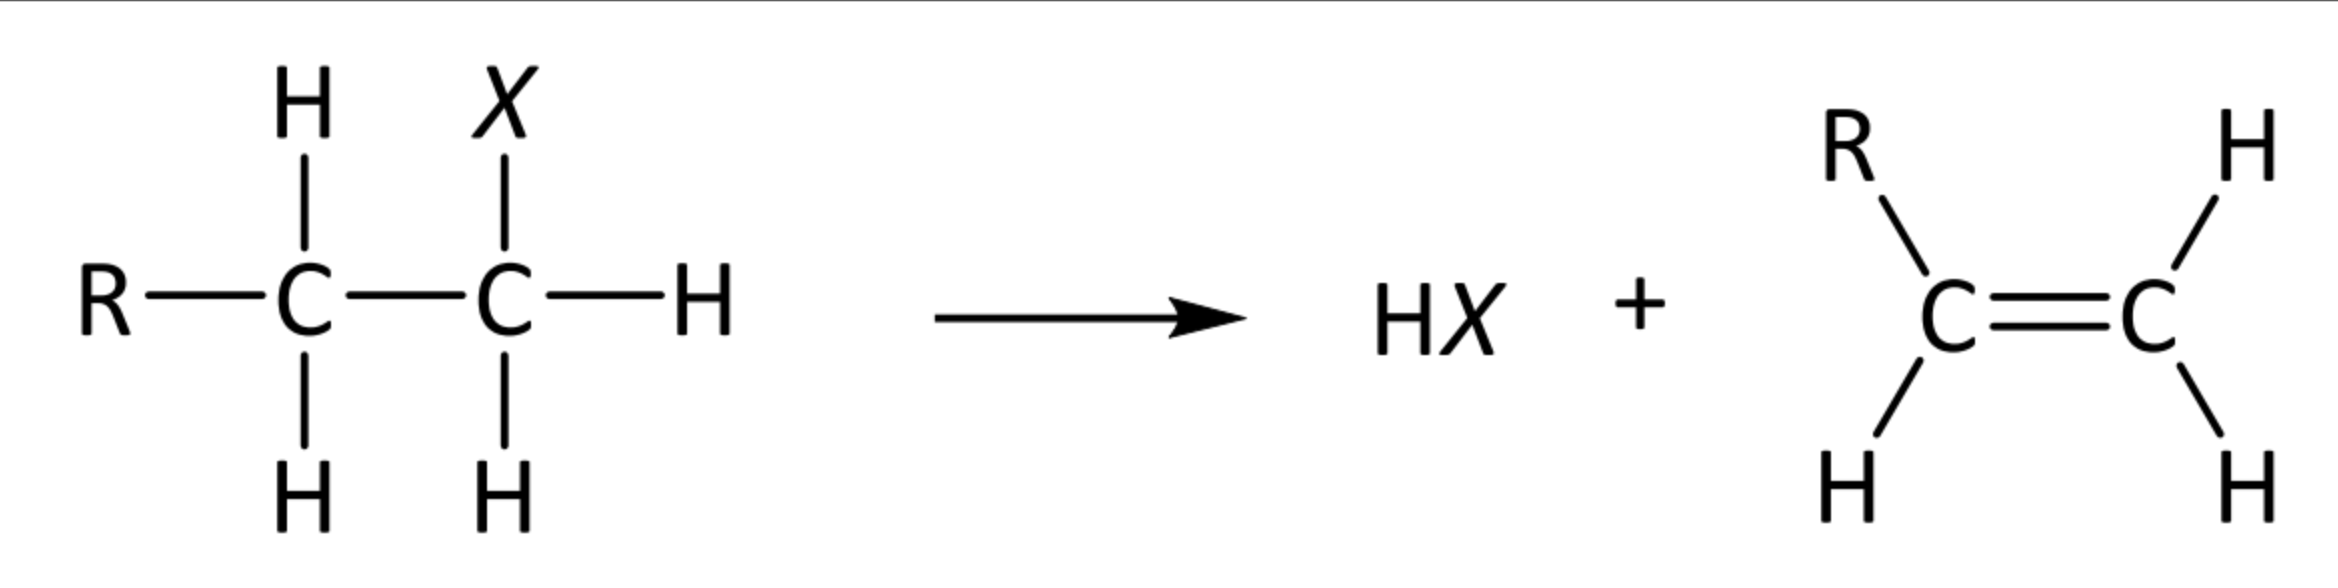
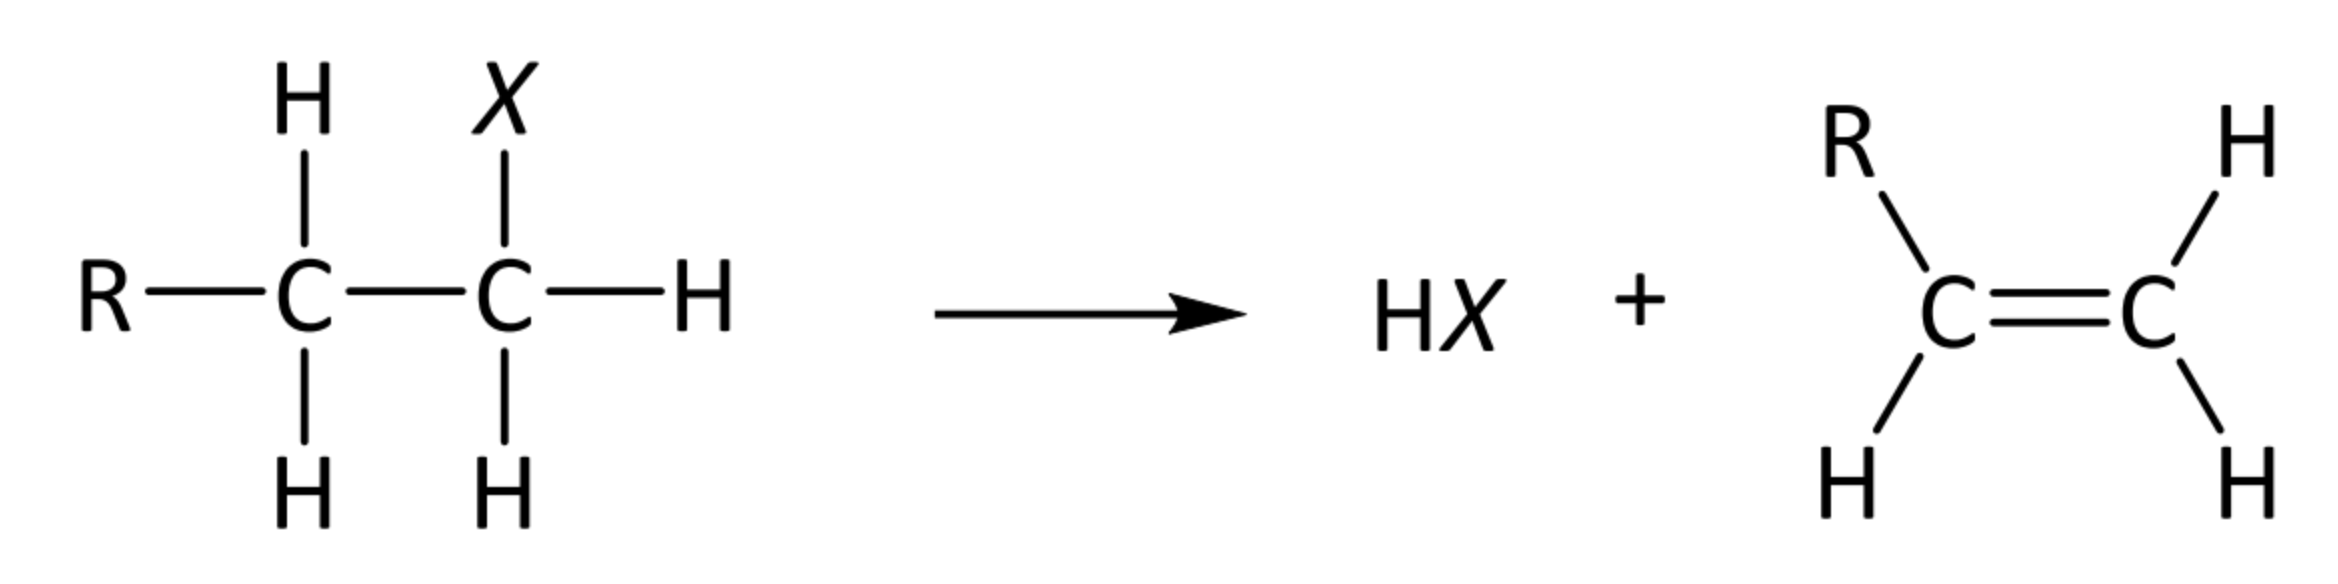
temp

diff --git a/layouts/shortcodes/smiles.html b/layouts/shortcodes/smiles.html
@@ -1,0 +1,1 @@
+<span class="smiles" data-smiles="{{ .Get 0 }}"></span>

diff --git a/content/posts/Organic reactions/index.md b/content/posts/Organic reactions/index.md
@@ -16,13 +16,11 @@ AI_warning: true
 $$\ce{CH4 + Cl2 ->[UV] CH3Cl + HCl}$$
 
 ### Nucleophilic Substitution (Halogenoalkanes)
-#### To Alcohols. 
-      
+#### To Alcohols
 $$\ce{R-X + OH- ->[NaOH(aq), heat] R-OH + X-}$$
 
 
-#### To Nitriles.  
-     
+#### To Nitriles
 
 $$\ce{R-X + CN- ->[KCN in ethanol, heat] R-CN + X-}$$
 
@@ -43,7 +41,7 @@ $$\ce{R-OH + HX ->[conc. H2SO4 / ZnCl2, heat] R-X + H2O}$$
 ### Nucleophilic Acyl Substitution $\ce{R-CO2H}$ to $\ce{R-COCL}$
 $$\ce{R-COOH + PCl5 ->[PCl5 / SOCl2 / PCl3] R-COCl + POCl3 + HCl}$$
 
----
+
 
 ## Addition
 
@@ -60,7 +58,7 @@ $$\ce{C=C + H2O(g) ->[H3PO4, high T \& P] CH-COH}$$
 ### Nucleophilic Addition (Carbonyls)
 $$\ce{R2C=O + HCN ->[trace KCN, 10-20\degree C] R2C(OH)CN}$$
 
----
+
 
 ## Elimination
 
@@ -74,13 +72,12 @@ $$\ce{NaOH \text{in ethanol, heat}}$$
 
 Other possible reagents & conditions include: excess concentrated $\ce{H2SO4}$, heat or $\ce{Al2O3}$, heat
 
----
 
 ## Condensation
 
 ### Esterification (Ester Formation)
 #### From Carboxylic Acids
-$$\ce{R-COOH + R'-OH <=> [conc. H2SO4, heat] R-COOR' + H2O}$$
+$$\ce{R-COOH + R'-OH <=>[conc. H2SO4, heat] R-COOR' + H2O}$$
 
 #### From Acyl Chlorides
 $$\ce{R-COCl + R'-OH ->[\text{r.t.}] R-COOR' + HCl}$$
@@ -91,7 +88,7 @@ $$\ce{R-COCl + R'-NH2 ->[excess amine, \text{r.t.}] R-CONHR' + HCl}$$
 ### Carbonyl Identification (Addition-Elimination)
 $$\ce{R2C=O + H2N-NHC6H3(NO2)2 ->[2,4-DNPH, \text{r.t.}] R2C=N-NHC6H3(NO2)2 + H2O}$$
 
----
+
 
 ## Hydrolysis
 
@@ -100,7 +97,7 @@ $$\ce{R-COCl + H2O ->[\text{r.t.}] R-COOH + HCl}$$
 
 ### Esters
 #### Acidic
-$$\ce{R-COOR' + H2O <=> [dilute H2SO4, heat] R-COOH + R'OH}$$
+$$\ce{R-COOR' + H2O <=>[dilute H2SO4, heat] R-COOH + R'OH}$$
 
 #### Alkaline
 $$\ce{R-COOR' + OH- ->[dilute NaOH, heat] R-COO- + R'OH}$$
@@ -112,7 +109,7 @@ $$\ce{R-CN + H+ + 2H2O ->[dilute H2SO4, heat] R-COOH + NH4+}$$
 #### Alkaline
 $$\ce{R-CN + OH- + H2O ->[dilute NaOH, heat] R-COO- + NH3}$$
 
----
+
 
 ## Oxidation
 
@@ -128,18 +125,46 @@ $$\ce{C=C ->[KMnO4, dilute H2SO4, heat] \text{Carbonyls / Carboxylic Acids}}$$
 $$\ce{R-CH2OH + [O] ->[K2Cr2O7, dil. H2SO4, distil] R-CHO + H2O}$$
 
 #### Primary (to Acid)
-$$\ce{R-CH2OH + 2[O] ->[KMnO4, dil. H2SO4, reflux] R-COOH + H2O}$$
+$$\ce{R-CH2OH + 2[O] ->[KMnO4, dil. H2SO4, reflux] R-CO2H + H2O}$$
 
 #### Secondary (to Ketone)
 $$\ce{R2CHOH + [O] ->[K2Cr2O7, dil. H2SO4, reflux] R2C=O + H2O}$$
 
 ### Aldehydes
-$$\ce{R-CHO + [O] ->[KMnO4, dil. H2SO4, reflux] R-COOH}$$
+$$\ce{R-CHO + [O] ->[KMnO4, dil. H2SO4, reflux] R-CO2H}$$
+
+### Side chain oxidation
+$$\ce{\text{ethylbenzene} ->[KMnO4, dil. H2SO4, heat] \text{Benzoic acid} + 2H20 + CO2}$$
+$$\ce{ R-C-C-\text{benzene} ->[KMnO4, dil. H2SO4, heat] \text{Benzoic acid} + H20 + R-CO2H}$$
+
+
 
 ### Tri-iodomethane (Iodoform) Test
 $$\ce{R-COCH3 ->[I2(aq), NaOH(aq), warm] R-COO- + CHI3}$$
+$$\ce{R-CH3CHOH ->[I2(aq), NaOH(aq), warm] R-COO- + CHI3}$$
+It is a common positive test for secondary alcohols, aldehydes, and methyl ketones [See a general test for alcohols.](NOT LINKED YET)
 
----
+<div style="display: flex; justify-content: center; gap: 40px; align-items: center;">
+
+  <div style="text-align: center;">
+    <img src="secondary_alcohol.png" style="max-height:100px; width:auto;">
+    <div>Secondary Alcohol</div>
+  </div>
+
+  <div style="text-align: center;">
+    <img src="aldehyde.png" style="max-height:100px; width:auto;">
+    <div>Aldehyde</div>
+  </div>
+
+
+  <div style="text-align: center;">
+    <img src="methyl_ketone.png" style="max-height:100px; width:auto;">
+    <div>Methyl Ketone</div>
+  </div>
+</div>
+
+
+
 
 ## Reduction
 
@@ -154,3 +179,18 @@ $$\ce{R-COOH ->[LiAlH4 in dry ether] R-CH2OH}$$
 
 ### Nitriles
 $$\ce{R-CN ->[LiAlH4 in dry ether / H2, Ni] R-CH2NH2}$$
+
+# Carboxylic Acids
+## Formation
+### Oxidation of primary alcohols and aldehydes
+$$\ce{R-CH2OH + 2[O] ->[KMnO4, dil. H2SO4, reflux] R-CO2H + H2O}$$
+$$\ce{R-CHO + [O] ->[KMnO4, dil. H2SO4, reflux] R-CO2H}$$
+### Oxidative cleavage of secondary alkenes
+$$\ce{R=CHR ->[KMnO4, dilute H2SO4, heat] \text{Carboxylic Acid}}$$
+### Side chain oxidation
+$$\ce{\text{ethylbenzene} ->[KMnO4, dil. H2SO4, heat] \text{Benzoic acid} + 2H20 + CO2}$$
+$$\ce{ R-C-C-\text{benzene} ->[KMnO4, dil. H2SO4, heat] \text{Benzoic acid} + H20 + R-CO2H}$$
+### Hydrolysis of Nitriles
+$$\ce{R-CN + H+ + 2H2O ->[dilute H2SO4, heat] R-COOH + NH4+}$$
+
+
